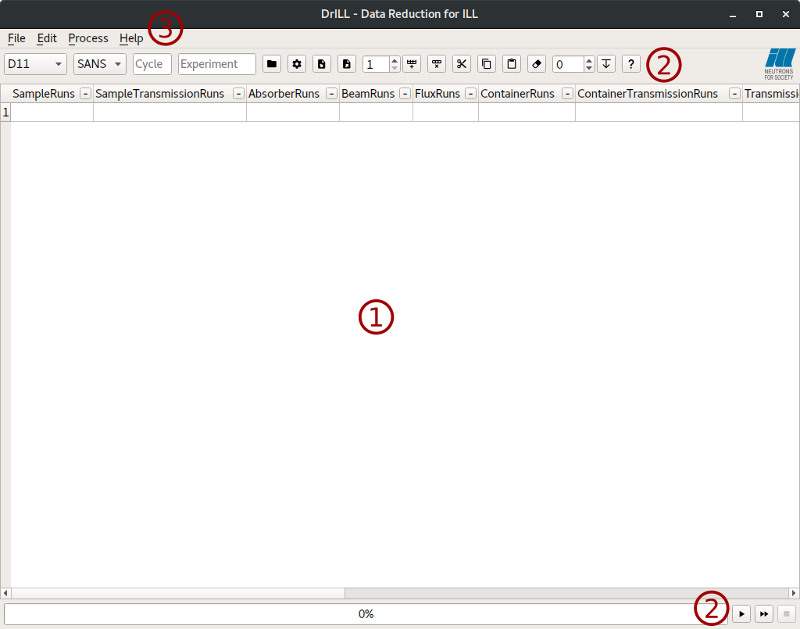
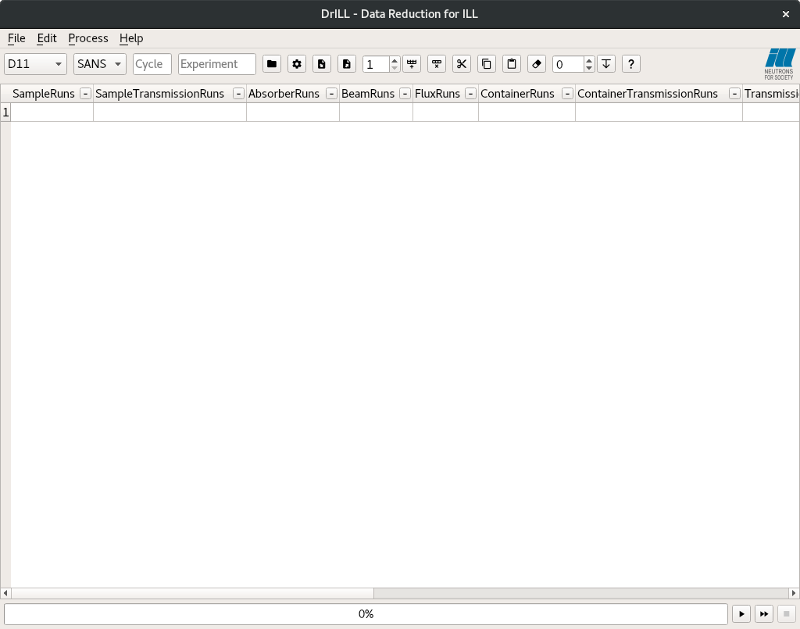
[DRILL] release note
Add a sentence and a screenshot in the release note to inform on the
availability of the interface.

diff --git a/docs/source/interfaces/DrILL.rst b/docs/source/interfaces/DrILL.rst
@@ -1,6 +1,9 @@
 DrILL interface
 ===============
 
+.. contents:: Table of Contents
+   :local:
+
 DrILL stands for Data Reduction at ILL. It provides an easy to use interface for
 the reduction of data measured on different ILL instruments. Here are the
 currently supported instruments:
@@ -25,7 +28,7 @@ Interface overview
 
 The DrILL main window is composed of different parts:
 
-.. image:: ../images/drill.png
+.. image:: ../images/drill-numbers.png
    :align: center
 
 spreadsheet like table (1)
@@ -144,3 +147,5 @@ bar (*File* -> *Save...* or *Load...*) one can export or import a Rundex file.
 When saving, the global settings, all the samples and some of the visual setup
 are exported in the rundex file. Symmetrically, the load action imports all
 these data in the current DrILL session.
+
+.. categories:: Interfaces

diff --git a/docs/source/release/v5.1.0/mantidworkbench.rst b/docs/source/release/v5.1.0/mantidworkbench.rst
@@ -14,6 +14,11 @@ New
 - The Sample Transmission Calculator is now implemented in workbench.
 - The axis tick markers in a plot can be switched between Log and decimal formats independently of the axes scale.
 - Axes limits and labels can be set simultaneously for all subplots with the `Apply to all` button.
+- The DrILL (Data reduction for ILL) interface is now available. See the documentation to get
+  more information.
+
+.. figure:: ../../images/drill.png
+   :align: right
 
 Improvements
 ############
